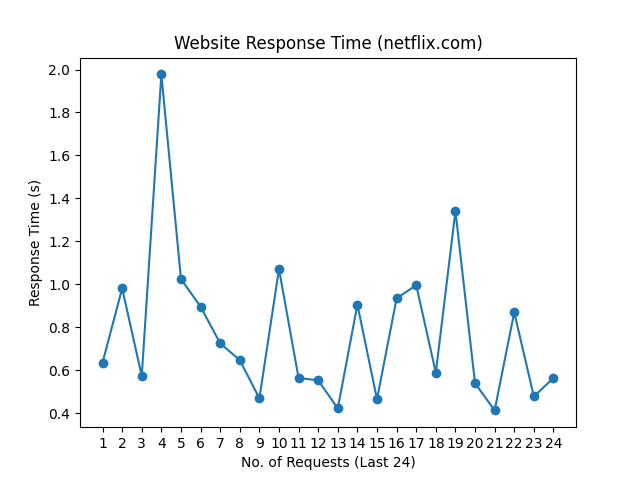
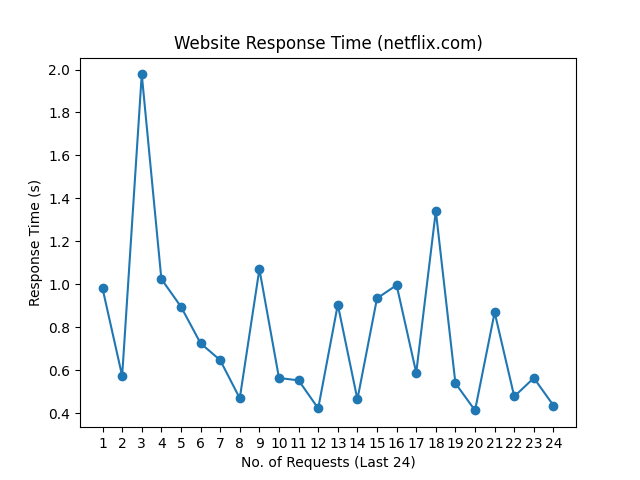
update README.md, history and graph

Changed region(s): [[0.1562, 0.125, 0.875, 0.875]]

diff --git a/README.md b/README.md
@@ -1,10 +1,10 @@
 # Web Monitoring
 
-Last Checked: 09/01/2024 09:04
+Last Checked: 10/01/2024 09:04
 
 | Website | Response Time (s) | Status | Avg Uptime (%) |
 |---------|-------------------|--------|----------------|
 | www.thiswebsiteisdown.net | 0 <br> <img src="graph/thiswebsiteisdown.net.png" alt="Graph" width="200" height="200">  | ❌ Down | 0.00 |
-| www.netflix.com | 0.563275 <br> <img src="graph/netflix.com.png" alt="Graph" width="200" height="200">  | ✅ Up | 100.00 |
-| www.google.com | 0.085668 <br> <img src="graph/google.com.png" alt="Graph" width="200" height="200">  | ✅ Up | 100.00 |
-| www.facebook.com | 0.641776 <br> <img src="graph/facebook.com.png" alt="Graph" width="200" height="200">  | ✅ Up | 100.00 |
+| www.netflix.com | 0.435143 <br> <img src="graph/netflix.com.png" alt="Graph" width="200" height="200">  | ✅ Up | 100.00 |
+| www.google.com | 0.079261 <br> <img src="graph/google.com.png" alt="Graph" width="200" height="200">  | ✅ Up | 100.00 |
+| www.facebook.com | 0.225162 <br> <img src="graph/facebook.com.png" alt="Graph" width="200" height="200">  | ✅ Up | 100.00 |
